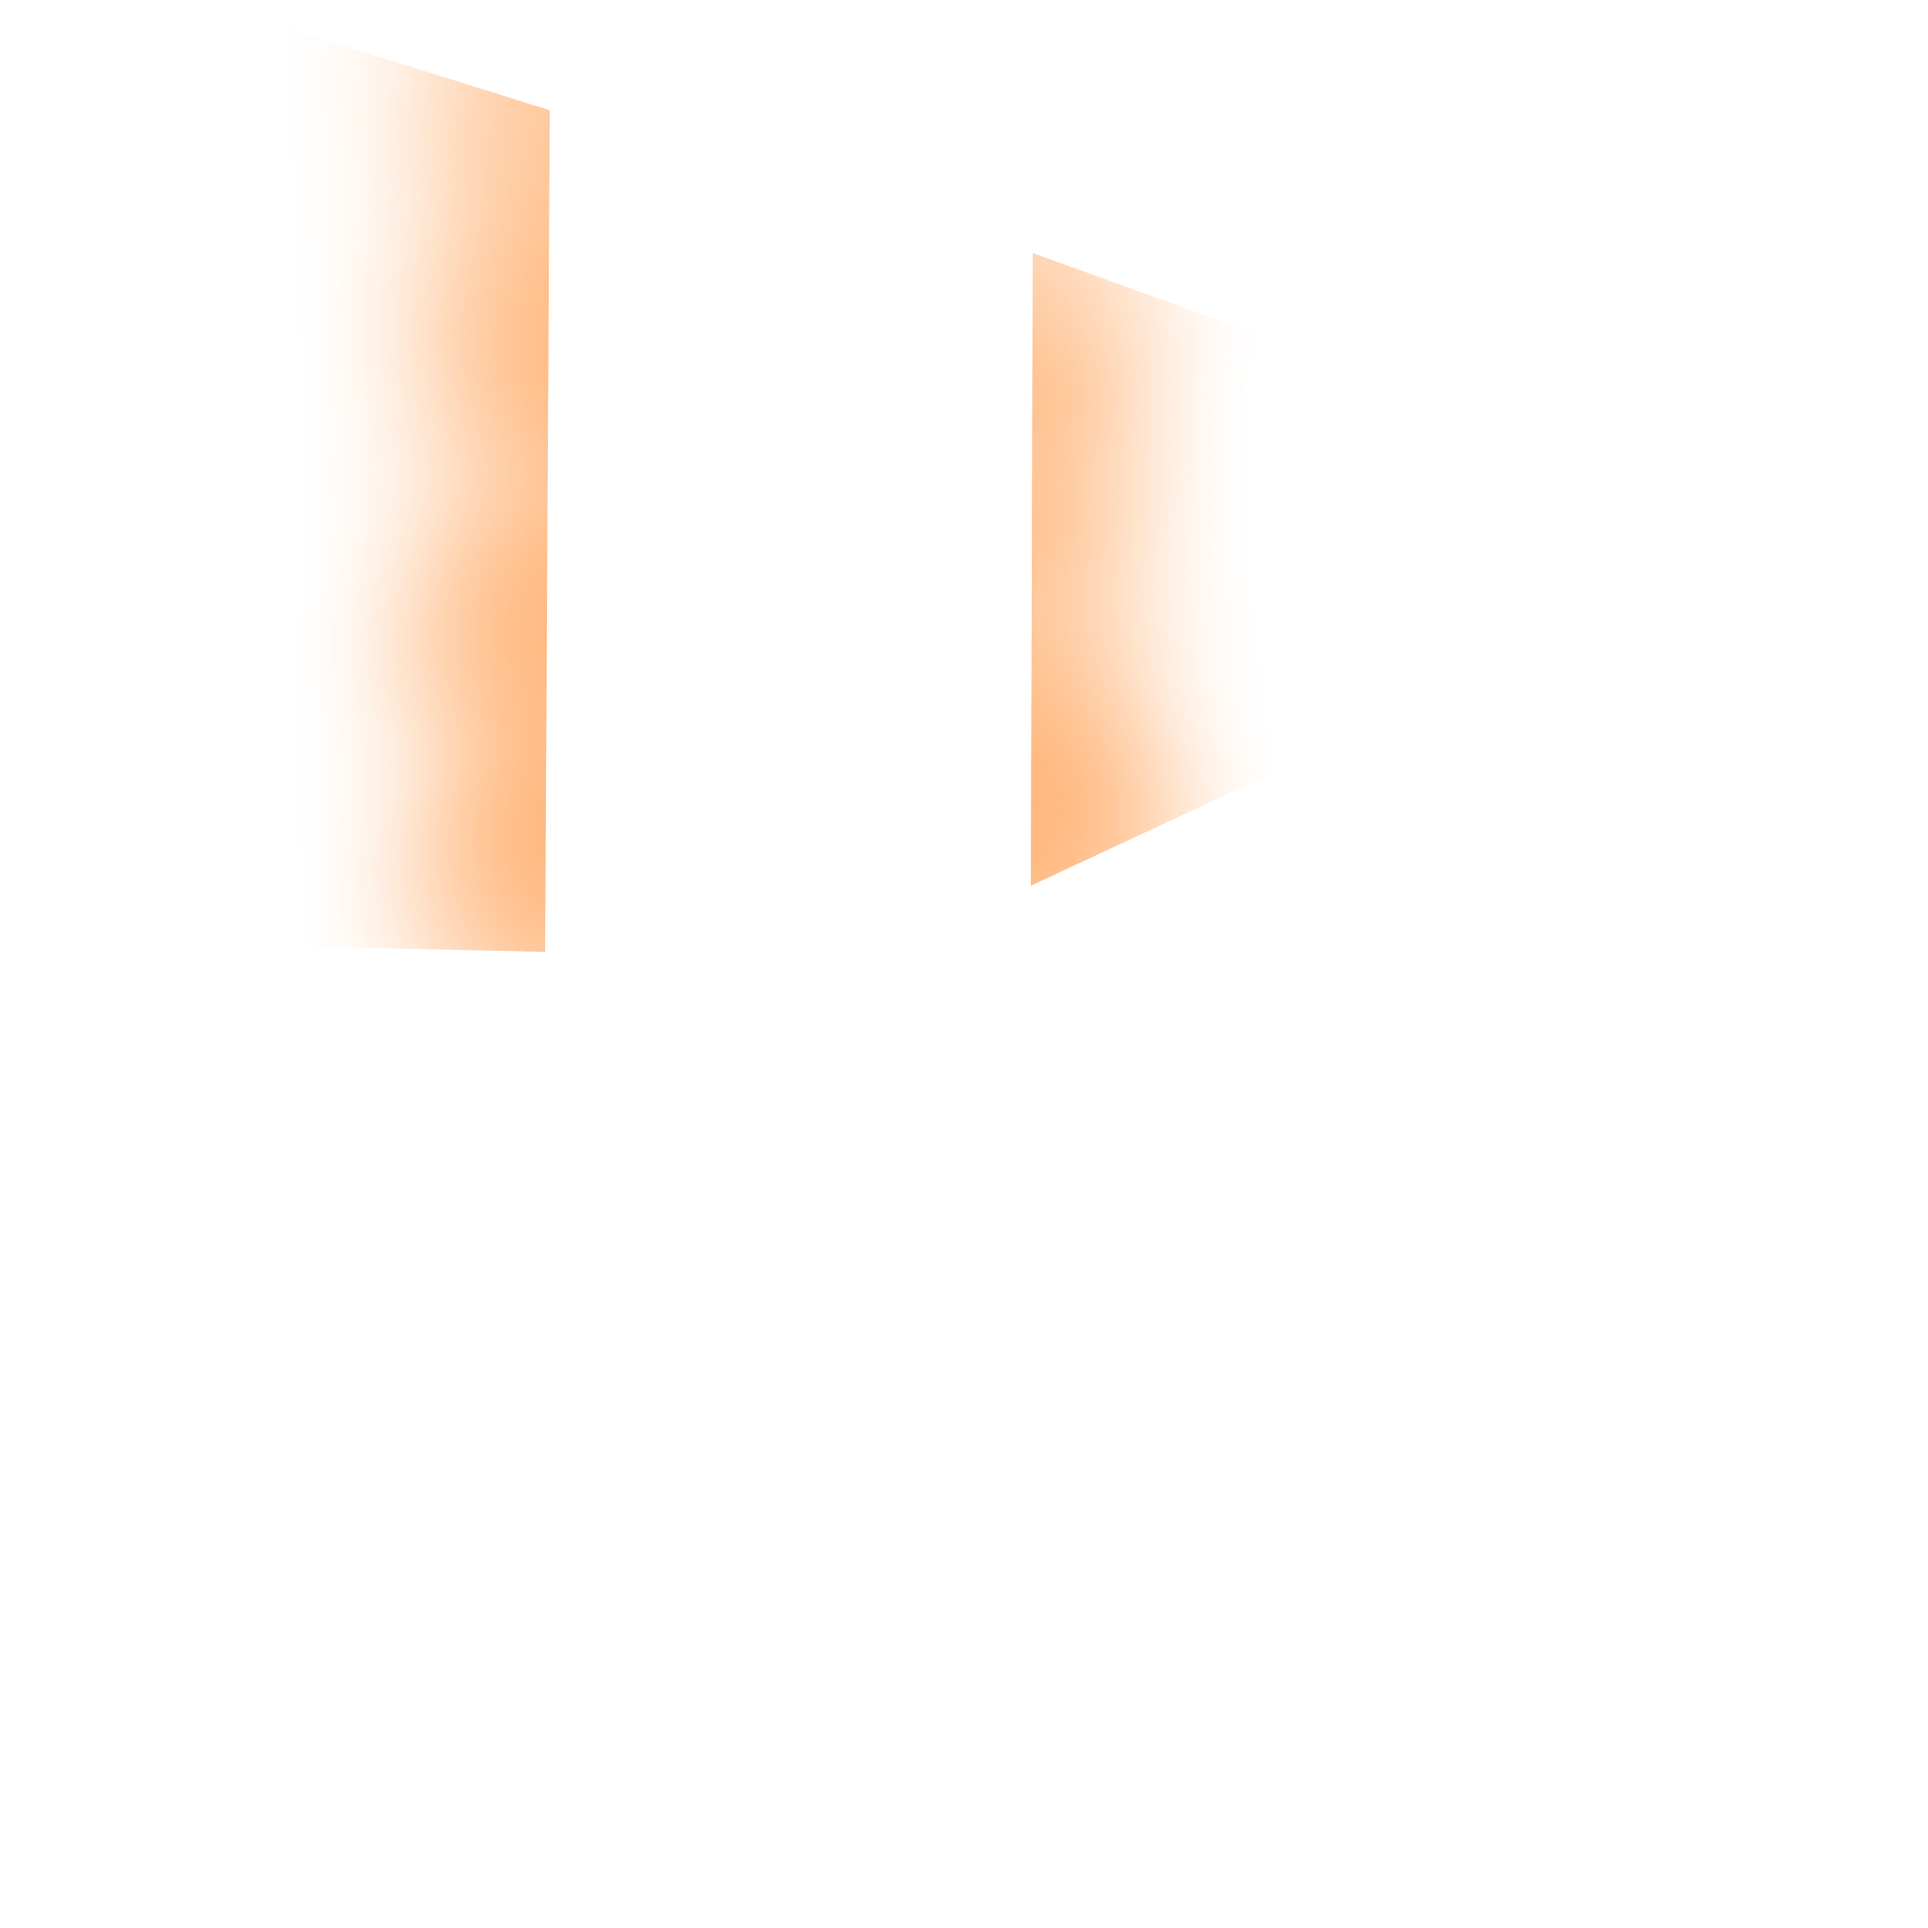
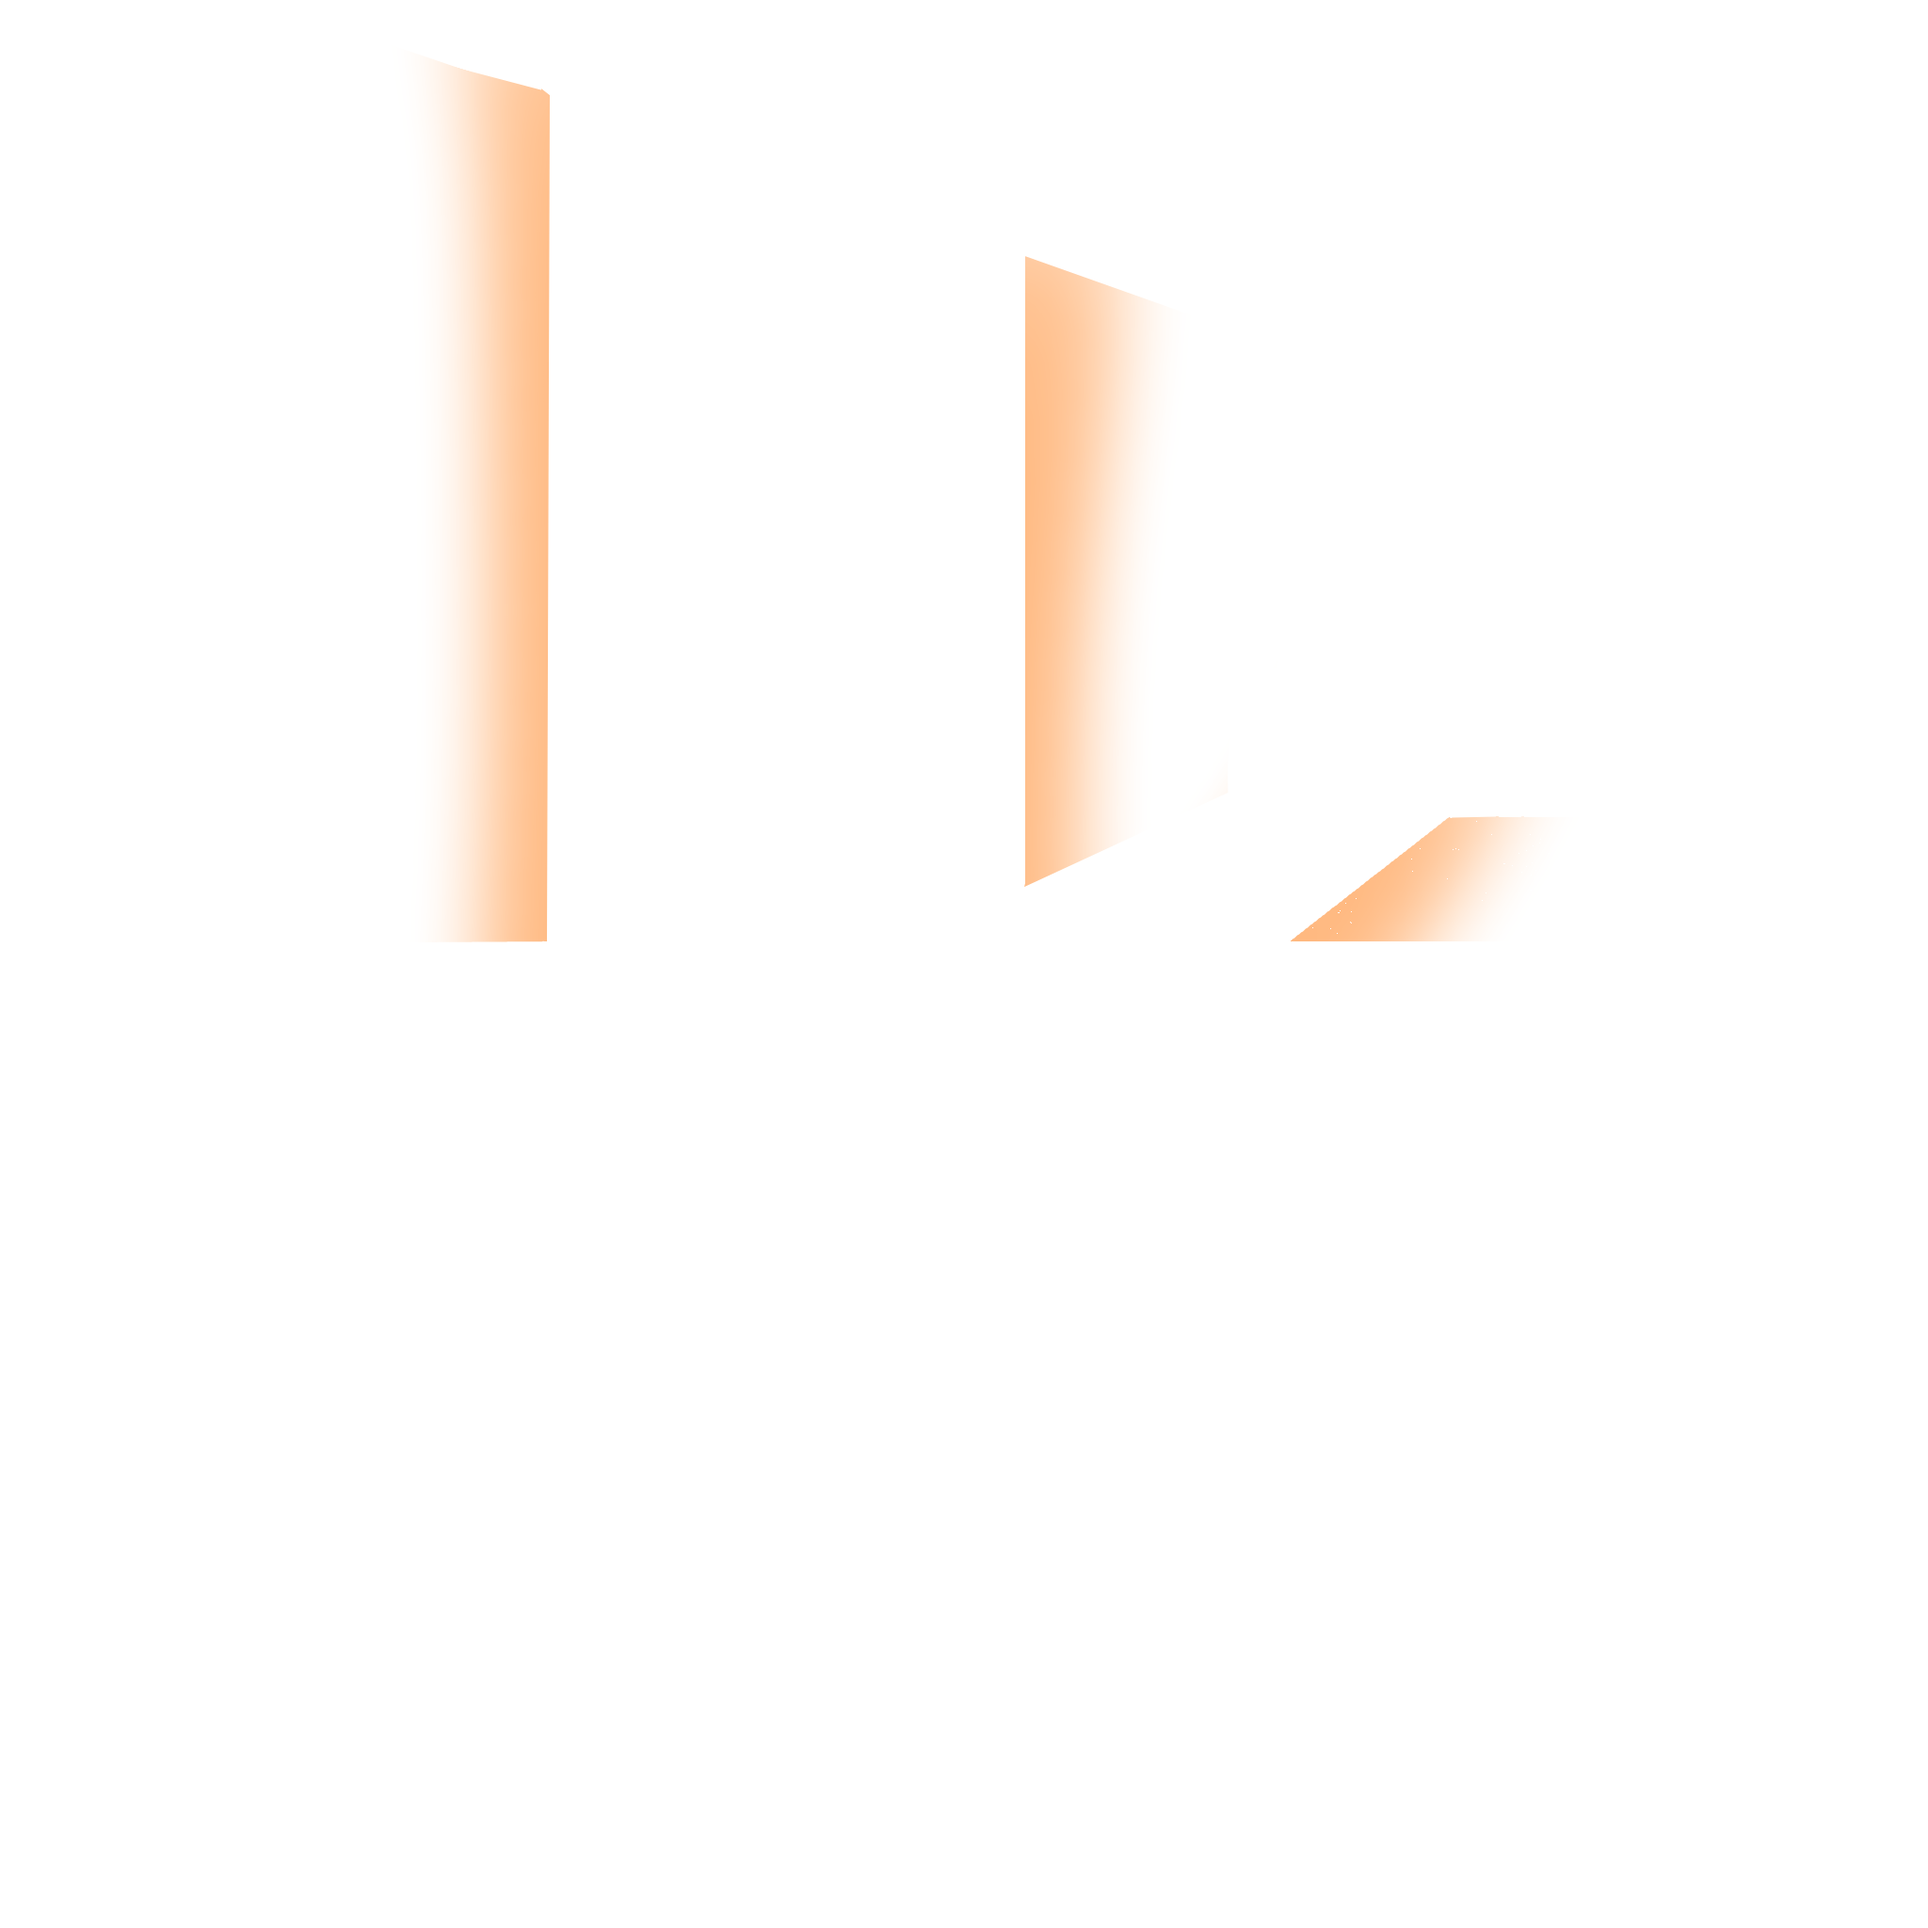
キャンドル周りを清書に変更 キャンドルのスライダーにバグ有

Changed region(s): [[0.1875, 0.0312, 0.2812, 0.5], [0.5312, 0.125, 0.625, 0.4688], [0.6562, 0.4062, 0.7812, 0.5]]

diff --git a/秋制作 ProjectA ver_α/テンプレート/Src/Object/Item/Id/Candle.cpp b/秋制作 ProjectA ver_α/テンプレート/Src/Object/Item/Id/Candle.cpp
@@ -1,40 +1,40 @@
 #include "Candle.h"
 #include "..//..//ObjectManager.h"
-
+#include "../ItemValue.h"
 
 void Candle::Init() {
 	switch (m_Id) {
 	case ObjID::CANDLE_LEFT:
-		LoadTexture("Res/Game/Item/Candle_Center_Right_Left.png", TEXTURE_CATEGORY_GAME, GameCategoryTextureList::GameCandleBigTex);
+		LoadTexture("Res/Game/Item/candle_big.png", TEXTURE_CATEGORY_GAME, GameCategoryTextureList::GameCandleBigTex);
 		m_pTex = GetTexture(TEXTURE_CATEGORY_GAME, GameCategoryTextureList::GameCandleBigTex);
 
 		if (m_pTex == nullptr) {
 			return;
 		}
 
-		m_Pos = CANDLE_BIG_POS;
+		m_Pos = CANDLE_BIG_LEFT_POS;
 
 		m_HeightRatio = (m_Frame.Height - (m_Frame.Height * m_CandleHp));
 
-		m_Pos.Y = CANDLE_BIG_POS.Y + m_HeightRatio;
+		m_Pos.Y = CANDLE_BIG_LEFT_POS.Y + m_HeightRatio;
 
 		m_Size = CANDLE_BIG_SIZE;
 		m_Frame = CANDLE_BIG_FRAME;
 
 		break;
 	case ObjID::CANDLE_RIGHT:
-		LoadTexture("Res/Game/Item/Candle_Center_Right_Left.png", TEXTURE_CATEGORY_GAME, GameCategoryTextureList::GameCandleBigTex);
+		LoadTexture("Res/Game/Item/candle_big.png", TEXTURE_CATEGORY_GAME, GameCategoryTextureList::GameCandleBigTex);
 		m_pTex = GetTexture(TEXTURE_CATEGORY_GAME, GameCategoryTextureList::GameCandleBigTex);
 
 		if (m_pTex == nullptr) {
 			return;
 		}
 
-		m_Pos = CANDLE_BIG_POS;
+		m_Pos = { (735.f - CANDLE_BIG_SIZE.Width / 2), (612.5f) };
 
 		m_HeightRatio = (m_Frame.Height - (m_Frame.Height * m_CandleHp));
 
-		m_Pos.Y = CANDLE_BIG_POS.Y + m_HeightRatio;
+		m_Pos.Y = (612.5f) + m_HeightRatio;
 
 
 		m_Size = CANDLE_BIG_SIZE;
@@ -58,17 +58,43 @@ void Candle::Init() {
 		m_Frame = CANDLE_SMALL_FRAME;
 
 		break;
-	case ObjID::CANDLE_STAND:
-		LoadTexture("Res/Game/Item/Candle_Stand.png", TEXTURE_CATEGORY_GAME, GameCategoryTextureList::GameCandleStandTex);
-		m_pTex = GetTexture(TEXTURE_CATEGORY_GAME, GameCategoryTextureList::GameCandleStandTex);
+	case ObjID::CANDLE_STAND_CENTER:
+		LoadTexture("Res/Game/Item/candle_stand_center.png", TEXTURE_CATEGORY_GAME, GameCategoryTextureList::GameCandleStandCenterTex);
+		m_pTex = GetTexture(TEXTURE_CATEGORY_GAME, GameCategoryTextureList::GameCandleStandCenterTex);
 
 		if (m_pTex == nullptr) {
 			return;
 		}
 
-		m_Pos = CANDLE_STAND_POS;
-		m_Size = CANDLE_STAND_SIZE;
-		m_Frame = CANDLE_STAND_FRAME;
+		m_Pos = CANDLE_STAND_CENTER_POS;
+		m_Size = CANDLE_STAND_CENTER_SIZE;
+		m_Frame = CANDLE_STAND_CENTER_FRAME;
+
+		break;
+	case ObjID::CANDLE_STAND_RIGHT:
+		LoadTexture("Res/Game/Item/candle_stand_side.png", TEXTURE_CATEGORY_GAME, GameCategoryTextureList::GameCandleStandSideTex);
+		m_pTex = GetTexture(TEXTURE_CATEGORY_GAME, GameCategoryTextureList::GameCandleStandSideTex);
+
+		if (m_pTex == nullptr) {
+			return;
+		}
+
+		m_Pos = {(720.f - (CANDLE_STAND_RIGHT_SIZE.Width / 2)), (930.f - (CANDLE_STAND_RIGHT_SIZE.Height / 2))};
+		m_Size = CANDLE_STAND_RIGHT_SIZE;
+		m_Frame = CANDLE_STAND_RIGHT_FRAME;
+
+		break;
+	case ObjID::CANDLE_STAND_LEFT:
+		LoadTexture("Res/Game/Item/candle_stand_side.png", TEXTURE_CATEGORY_GAME, GameCategoryTextureList::GameCandleStandSideTex);
+		m_pTex = GetTexture(TEXTURE_CATEGORY_GAME, GameCategoryTextureList::GameCandleStandSideTex);
+
+		if (m_pTex == nullptr) {
+			return;
+		}
+
+		m_Pos = CANDLE_STAND_LEFT_POS;
+		m_Size = CANDLE_STAND_LEFT_SIZE;
+		m_Frame = CANDLE_STAND_LEFT_FRAME;
 
 		break;
 	case ObjID::CANDLE_EFFECT_CENTER:
@@ -105,7 +131,7 @@ void Candle::Init() {
 			return;
 		}
 
-		m_Pos = { 0.0f, 0.0f };
+		m_Pos = { 128.0f, 0.0f };
 		m_Size = { 0.f, 0.f };
 		m_Frame = { 2048.f, 2048.f };
 
@@ -131,22 +157,42 @@ void Candle::CandleSwitch(bool center_switch_, bool left_switch_, bool right_swi
 void Candle::SceneDeath() {
 	if (GetCurrentSceneId() == GameScene) {
 
-		switch (m_Id)
-		{
-		case ObjID::CANDLE_STAND:
-			m_IsDeath = false;
-			break;
-		}
+		//switch (m_Id)
+		//{
+		//case ObjID::CANDLE_STAND_CENTER:
+		//	m_IsDeath = false;
+		//	break;
+		//case ObjID::CANDLE_STAND_SIDE:
+		//	m_IsDeath = false;
+		//	break;
+		//}
 
 		switch (GameView()->CurrentViewID())
 		{
 		case GameData::SubGameScene::CENTER:
+			if (m_Id == ObjID::CANDLE_STAND_CENTER) {
+				m_IsDeath = false;
+			}
+			else if (m_Id == ObjID::CANDLE_STAND_LEFT || m_Id == ObjID::CANDLE_STAND_RIGHT) {
+				m_IsDeath = true;
+			}
 			CandleSwitch(false, true, true);
 			break;
 		case GameData::SubGameScene::RIGHT:
+			if (m_Id == ObjID::CANDLE_STAND_RIGHT) {
+				m_IsDeath = false;
+			}else if (m_Id == ObjID::CANDLE_STAND_CENTER || m_Id == ObjID::CANDLE_STAND_LEFT) {
+				m_IsDeath = true;
+			}
 			CandleSwitch(true, true, false);
 			break;
 		case GameData::SubGameScene::LEFT:
+			if (m_Id == ObjID::CANDLE_STAND_LEFT) {
+				m_IsDeath = false;
+			}
+			else if (m_Id == ObjID::CANDLE_STAND_CENTER || m_Id == ObjID::CANDLE_STAND_RIGHT) {
+				m_IsDeath = true;
+			}
 			CandleSwitch(true, false, true);
 			break;
 		}
@@ -168,7 +214,7 @@ void Candle::MeltCandle(ObjID id_) {
 
 			m_HeightRatio = (m_Frame.Height - (m_Frame.Height * m_CandleHp));
 
-			m_Pos.Y = CANDLE_BIG_POS.Y + m_HeightRatio;
+			m_Pos.Y = CANDLE_BIG_LEFT_POS.Y + m_HeightRatio;
 
 			break;
 		case ObjID::CANDLE_RIGHT:
@@ -177,7 +223,7 @@ void Candle::MeltCandle(ObjID id_) {
 
 			m_HeightRatio = (m_Frame.Height - (m_Frame.Height * m_CandleHp));
 
-			m_Pos.Y = CANDLE_BIG_POS.Y + m_HeightRatio;
+			m_Pos.Y = CANDLE_BIG_RIGHT_POS.Y + m_HeightRatio;
 
 			break;
 		case ObjID::CANDLE_CENTER:
@@ -298,7 +344,9 @@ void Candle::Draw(){
 		case ObjID::CANDLE_EFFECT_CENTER:
 		case ObjID::CANDLE_EFFECT_LEFT:
 		case ObjID::CANDLE_EFFECT_RIGHT:
-		case ObjID::CANDLE_STAND:
+		case ObjID::CANDLE_STAND_CENTER:
+		case ObjID::CANDLE_STAND_LEFT:
+		case ObjID::CANDLE_STAND_RIGHT:
 			DrawTexture(m_Pos.X, m_Pos.Y, m_pTex, m_Frame);
 			break;
 		default:

diff --git a/秋制作 ProjectA ver_α/テンプレート/Src/Object/Item/Id/Fire.cpp b/秋制作 ProjectA ver_α/テンプレート/Src/Object/Item/Id/Fire.cpp
@@ -1,46 +1,47 @@
 #include "Fire.h"
+#include "../ItemValue.h"
 
 void Fire::Init() {
 	switch (m_Id)
 	{
 	case ObjID::FIRE_CENTER:
-		LoadTexture("Res/Game/Item/Candle_Fire.png", TEXTURE_CATEGORY_GAME, GameCategoryTextureList::GameFireSmallTex);
-		m_pTex = GetTexture(TEXTURE_CATEGORY_GAME, GameCategoryTextureList::GameFireSmallTex);
+		LoadTexture("Res/Game/Item/candle_fire.png", TEXTURE_CATEGORY_GAME, GameCategoryTextureList::GameFireTex);
+		m_pTex = GetTexture(TEXTURE_CATEGORY_GAME, GameCategoryTextureList::GameFireTex);
 
 		if (m_pTex == nullptr) {
 			return;
 		}
 
 		m_Pos = FIRE_SMALL_POS;
-		m_Size = FIRE_SMALL_SIZE;
-		m_Frame = FIRE_SMALL_FRAME;
+		m_Size = FIRE_SIZE;
+		m_Frame = FIRE_FRAME;
 		m_pObject = ObjManager()->GetObj(ObjID::CANDLE_CENTER);
 		break;
 	case ObjID::FIRE_RIGHT:
-		LoadTexture("Res/Game/Item/Candle_Fire_Right_Left.png", TEXTURE_CATEGORY_GAME, GameCategoryTextureList::GameFireBigTex);
-		m_pTex = GetTexture(TEXTURE_CATEGORY_GAME, GameCategoryTextureList::GameFireBigTex);
+		LoadTexture("Res/Game/Item/candle_fire.png", TEXTURE_CATEGORY_GAME, GameCategoryTextureList::GameFireTex);
+		m_pTex = GetTexture(TEXTURE_CATEGORY_GAME, GameCategoryTextureList::GameFireTex);
 
 		if (m_pTex == nullptr) {
 			return;
 		}
 
-		m_Pos = FIRE_BIG_POS;
-		m_Size = FIRE_BIG_SIZE;
-		m_Frame = FIRE_BIG_FRAME;
+		m_Pos = FIRE_BIG_RIGHT_POS;
+		m_Size = FIRE_SIZE;
+		m_Frame = FIRE_FRAME;
 		m_pObject = ObjManager()->GetObj(ObjID::CANDLE_RIGHT);
 
 		break;
 	case ObjID::FIRE_LEFT:
-		LoadTexture("Res/Game/Item/Candle_Fire_Right_Left.png", TEXTURE_CATEGORY_GAME, GameCategoryTextureList::GameFireBigTex);
-		m_pTex = GetTexture(TEXTURE_CATEGORY_GAME, GameCategoryTextureList::GameFireBigTex);
+		LoadTexture("Res/Game/Item/candle_fire.png", TEXTURE_CATEGORY_GAME, GameCategoryTextureList::GameFireTex);
+		m_pTex = GetTexture(TEXTURE_CATEGORY_GAME, GameCategoryTextureList::GameFireTex);
 
 		if (m_pTex == nullptr) {
 			return;
 		}
 
-		m_Pos = FIRE_BIG_POS;
-		m_Size = FIRE_BIG_SIZE;
-		m_Frame = FIRE_BIG_FRAME;
+		m_Pos = FIRE_BIG_LEFT_POS;
+		m_Size = FIRE_SIZE;
+		m_Frame = FIRE_FRAME;
 		m_pObject = ObjManager()->GetObj(ObjID::CANDLE_LEFT);
 
 		break;
@@ -108,7 +109,7 @@ void Fire::Update() {
 					HeightRatio = m_pObject->GetRatio();
 				}
 
-				m_Pos.Y = FIRE_BIG_POS.Y + HeightRatio;
+				m_Pos.Y = FIRE_BIG_RIGHT_POS.Y + HeightRatio;
 
 			}
 			break;
@@ -117,7 +118,7 @@ void Fire::Update() {
 				if (m_pObject->GetRatio() != NULL) {
 					HeightRatio = m_pObject->GetRatio();
 				}
-				m_Pos.Y = FIRE_BIG_POS.Y + HeightRatio;
+				m_Pos.Y = FIRE_BIG_LEFT_POS.Y + HeightRatio;
 
 			}
 			break;

diff --git a/秋制作 ProjectA ver_α/テンプレート/Src/Object/ObjectManager.cpp b/秋制作 ProjectA ver_α/テンプレート/Src/Object/ObjectManager.cpp
@@ -25,7 +25,9 @@ ObjectManager::ObjectManager() {
 	m_pObjects[static_cast<int>(ObjID::CANDLE_CENTER)]				= new Candle(ObjID::CANDLE_CENTER);
 	m_pObjects[static_cast<int>(ObjID::CANDLE_EFFECT_CENTER)]		= new Candle(ObjID::CANDLE_EFFECT_CENTER);
 
-	m_pObjects[static_cast<int>(ObjID::CANDLE_STAND)]				= new Candle(ObjID::CANDLE_STAND);
+	m_pObjects[static_cast<int>(ObjID::CANDLE_STAND_CENTER)]		= new Candle(ObjID::CANDLE_STAND_CENTER);
+	m_pObjects[static_cast<int>(ObjID::CANDLE_STAND_LEFT)]			= new Candle(ObjID::CANDLE_STAND_LEFT);
+	m_pObjects[static_cast<int>(ObjID::CANDLE_STAND_RIGHT)]			= new Candle(ObjID::CANDLE_STAND_RIGHT);
 
 	m_pObjects[static_cast<int>(ObjID::FIRE_CENTER)]				= new Fire(ObjID::FIRE_CENTER);
 	m_pObjects[static_cast<int>(ObjID::FIRE_RIGHT)]					= new Fire(ObjID::FIRE_RIGHT);

diff --git a/秋制作 ProjectA ver_α/テンプレート/Src/Scene/GameScene/GameScene.cpp b/秋制作 ProjectA ver_α/テンプレート/Src/Scene/GameScene/GameScene.cpp
@@ -55,7 +55,7 @@ void DrawGameScene()
 		DrawTexture(0.0f, 0.0f, GetTexture(TEXTURE_CATEGORY_CENTER, CenterCategoryTextureList::GameCenterDeskTex));
 
 		if (pCenterCandle->HasCaLight() == false) {
-			DrawTexture(710.0f, 365.0f, GetTexture(TEXTURE_CATEGORY_CENTER, CenterCategoryTextureList::GameCenterBlackTex));
+			DrawTexture(0.0f, 0.0f, GetTexture(TEXTURE_CATEGORY_CENTER, CenterCategoryTextureList::GameCenterBlackTex));
 		}
 
 		break;

diff --git a/秋制作 ProjectA ver_α/テンプレート/Src/Texture/GameSceneTex.h b/秋制作 ProjectA ver_α/テンプレート/Src/Texture/GameSceneTex.h
@@ -11,12 +11,15 @@ enum GameCategoryTextureList
 	//item
 	GameCandleBigTex,
 	GameCandleSmallTex,
-	GameCandleStandTex,
+
+	GameCandleStandCenterTex,
+	GameCandleStandSideTex,
 
 	GameCandleCenterEffectTex,
 	GameCandleLeftEffectTex,
 	GameCandleRightEffectTex,
 	
+	GameFireTex,
 	GameFireBigTex,
 	GameFireSmallTex,
 

diff --git a/秋制作 ProjectA ver_α/テンプレート/Src/Object/ObjectID.h b/秋制作 ProjectA ver_α/テンプレート/Src/Object/ObjectID.h
@@ -7,16 +7,18 @@
 
 enum class ObjID {
 	//Item
-	CANDLE_RIGHT,
 	CANDLE_EFFECT_RIGHT,
+	CANDLE_RIGHT,
 
-	CANDLE_LEFT,
 	CANDLE_EFFECT_LEFT,
+	CANDLE_LEFT,
 
 	CANDLE_CENTER,
 	CANDLE_EFFECT_CENTER,
 
-	CANDLE_STAND,
+	CANDLE_STAND_CENTER,
+	CANDLE_STAND_LEFT,
+	CANDLE_STAND_RIGHT,
 
 	FIRE_CENTER,
 	FIRE_RIGHT,
